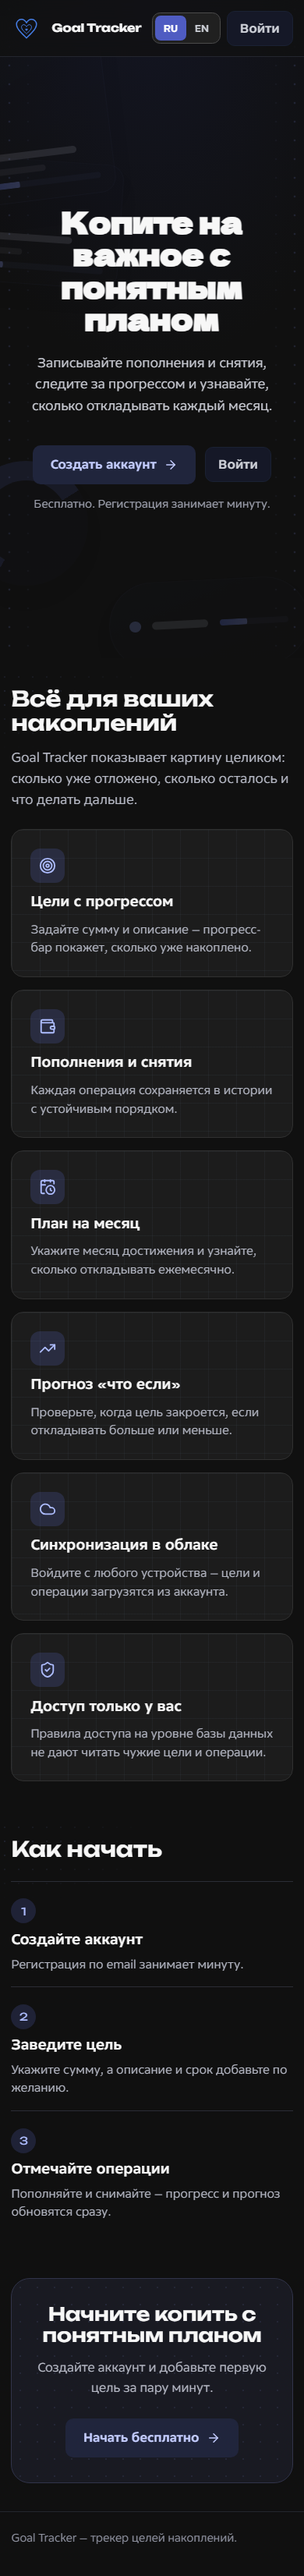
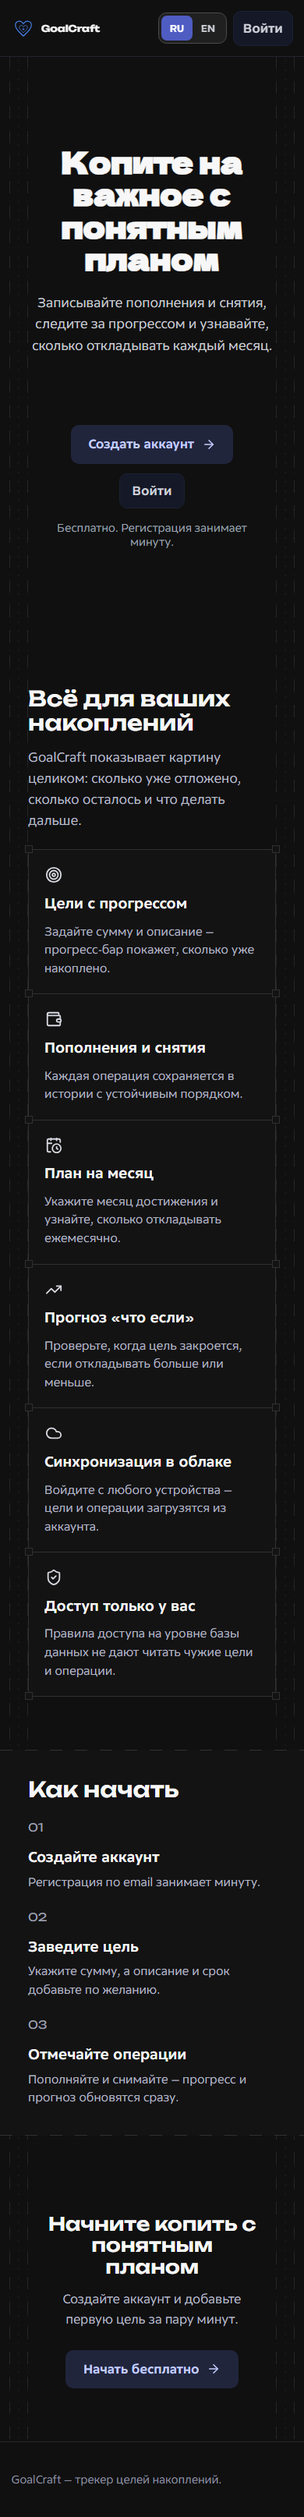
Polish GoalCraft branding and refresh README screenshots

diff --git a/src/shared/lib/i18n.tsx b/src/shared/lib/i18n.tsx
@@ -7,7 +7,7 @@ const storageKey = 'goal-tracker-locale';
 
 const messages = {
   ru: {
-    'app.title': 'Goal Tracker — цели накоплений',
+    'app.title': 'GoalCraft — цели накоплений',
     'app.description': 'Планируйте накопления и отслеживайте прогресс целей.',
     'welcome.title': 'Копите на важное с понятным планом',
     'welcome.lead':
@@ -16,7 +16,7 @@ const messages = {
     'welcome.heroHint': 'Бесплатно. Регистрация занимает минуту.',
     'welcome.featuresTitle': 'Всё для ваших накоплений',
     'welcome.featuresLead':
-      'Goal Tracker показывает картину целиком: сколько уже отложено, сколько осталось и что делать дальше.',
+      'GoalCraft показывает картину целиком: сколько уже отложено, сколько осталось и что делать дальше.',
     'welcome.featureGoals': 'Цели с прогрессом',
     'welcome.featureGoalsText':
       'Задайте сумму и описание — прогресс-бар покажет, сколько уже накоплено.',
@@ -47,9 +47,9 @@ const messages = {
     'welcome.ctaTitle': 'Начните копить с понятным планом',
     'welcome.ctaLead': 'Создайте аккаунт и добавьте первую цель за пару минут.',
     'welcome.ctaAction': 'Начать бесплатно',
-    'welcome.footer': 'Goal Tracker — трекер целей накоплений.',
+    'welcome.footer': 'GoalCraft — трекер целей накоплений.',
     'language.label': 'Язык',
-    'overview.logo': 'Логотип Goal Tracker',
+    'overview.logo': 'Логотип GoalCraft',
     'overview.create': 'Новая цель',
     'overview.summary': 'Сводка накоплений',
     'overview.total': 'Всего накоплено',
@@ -105,7 +105,6 @@ const messages = {
       'Нельзя удалить операцию: это приведёт к отрицательному балансу',
     'delete.transactionError': 'Не удалось удалить операцию',
     'dialog.close': 'Закрыть',
-    'auth.backHome': 'На главную',
     'auth.eyebrow': 'Ваши цели, ваш темп',
     'auth.email': 'Электронная почта',
     'auth.password': 'Пароль',
@@ -207,7 +206,7 @@ const messages = {
     'plan.forecast': 'Прогноз достижения: {month}',
   },
   en: {
-    'app.title': 'Goal Tracker — savings goals',
+    'app.title': 'GoalCraft — savings goals',
     'app.description': 'Plan savings and track progress toward your goals.',
     'welcome.title': 'Save for what matters with a clear plan',
     'welcome.lead':
@@ -216,7 +215,7 @@ const messages = {
     'welcome.heroHint': 'Free. Signing up takes a minute.',
     'welcome.featuresTitle': 'Everything for your savings',
     'welcome.featuresLead':
-      'Goal Tracker shows the whole picture: how much is set aside, what is left, and what to do next.',
+      'GoalCraft shows the whole picture: how much is set aside, what is left, and what to do next.',
     'welcome.featureGoals': 'Goals with progress',
     'welcome.featureGoalsText':
       'Set an amount and a description — the progress bar shows how far you are.',
@@ -248,9 +247,9 @@ const messages = {
     'welcome.ctaLead':
       'Create an account and add your first goal in a couple of minutes.',
     'welcome.ctaAction': 'Get started free',
-    'welcome.footer': 'Goal Tracker — a savings goals tracker.',
+    'welcome.footer': 'GoalCraft — a savings goals tracker.',
     'language.label': 'Language',
-    'overview.logo': 'Goal Tracker logo',
+    'overview.logo': 'GoalCraft logo',
     'overview.create': 'New goal',
     'overview.summary': 'Savings overview',
     'overview.total': 'Total saved',
@@ -308,7 +307,6 @@ const messages = {
       'This transaction cannot be deleted because the balance would become negative',
     'delete.transactionError': 'Could not delete the transaction',
     'dialog.close': 'Close',
-    'auth.backHome': 'Home',
     'auth.eyebrow': 'Your goals, your pace',
     'auth.email': 'Email',
     'auth.password': 'Password',

diff --git a/src/pages/auth/ui/AuthPages.tsx b/src/pages/auth/ui/AuthPages.tsx
@@ -3,6 +3,7 @@ import { Link, useNavigate } from 'react-router';
 
 import { useSession } from '../../../entities/session';
 import { useI18n } from '../../../shared/lib/i18n';
+import { publicAsset } from '../../../shared/lib/publicPath';
 import { Button } from '../../../shared/ui/Button/Button';
 import { Field } from '../../../shared/ui/Field/Field';
 import { LanguageSwitcher } from '../../../shared/ui/LanguageSwitcher/LanguageSwitcher';
@@ -35,14 +36,10 @@ const AuthShell = ({
       <DotBackdrop />
       <div className={styles.topBar}>
         <Link className={styles.brand} to="/">
-          Goal Tracker
+          <img alt="" height={40} src={publicAsset('logo.svg')} width={40} />
+          <span>GoalCraft</span>
         </Link>
-        <div className={styles.topActions}>
-          <LanguageSwitcher />
-          <Link className={styles.backLink} to="/">
-            {t('auth.backHome')}
-          </Link>
-        </div>
+        <LanguageSwitcher />
       </div>
       <section className={styles.card}>
         <p className={styles.eyebrow}>{t('auth.eyebrow')}</p>

diff --git a/src/widgets/app-header/ui/AppHeader.module.scss b/src/widgets/app-header/ui/AppHeader.module.scss
@@ -27,6 +27,38 @@
   gap: 0.75rem;
   justify-content: flex-end;
 }
+.signOut {
+  align-items: center;
+  background: transparent;
+  border: 1px solid transparent;
+  border-radius: 0;
+  color: #ced1d8;
+  cursor: pointer;
+  display: inline-flex;
+  flex: 0 0 2.75rem;
+  height: 2.75rem;
+  justify-content: center;
+  padding: 0;
+  transition:
+    background-color 160ms ease,
+    border-color 160ms ease,
+    color 160ms ease;
+  width: 2.75rem;
+}
+.signOut:not(:disabled):hover,
+.signOut:focus-visible {
+  background: #242424;
+  border-color: #454545;
+  color: #fff;
+}
+.signOut:focus-visible {
+  outline: 2px solid #b9c8ff;
+  outline-offset: 2px;
+}
+.signOut:disabled {
+  cursor: not-allowed;
+  opacity: 0.6;
+}
 .error {
   color: #ffb4b4;
   margin: 0 auto;
@@ -41,7 +73,7 @@
   .actions {
     gap: 0.5rem;
   }
-  .actions > button {
+  .actions > button:not(.signOut) {
     min-height: 2.75rem;
     padding: 0.5rem 0.75rem;
   }

diff --git a/src/shared/lib/i18n.test.tsx b/src/shared/lib/i18n.test.tsx
@@ -32,12 +32,12 @@ describe('i18n', () => {
     expect(
       screen.getByText('Копите на важное с понятным планом')
     ).toBeInTheDocument();
-    expect(document.title).toBe('Goal Tracker — цели накоплений');
+    expect(document.title).toBe('GoalCraft — цели накоплений');
     fireEvent.click(screen.getByRole('button', { name: 'English' }));
     expect(
       screen.getByText('Save for what matters with a clear plan')
     ).toBeInTheDocument();
-    expect(document.title).toBe('Goal Tracker — savings goals');
+    expect(document.title).toBe('GoalCraft — savings goals');
     expect(localStorage.getItem('goal-tracker-locale')).toBe('en');
   });
 });

diff --git a/src/widgets/app-header/ui/AppHeader.tsx b/src/widgets/app-header/ui/AppHeader.tsx
@@ -63,14 +63,16 @@ export const AppHeader = ({ children }: { children?: ReactNode }) => {
               </Button>
             </>
           ) : (
-            <Button
-              variant="secondary"
+            <button
+              className={styles.signOut}
+              type="button"
+              aria-label={t('toolbar.signOut')}
+              title={t('toolbar.signOut')}
               disabled={busy}
               onClick={() => void signOut()}
             >
-              <LogOut size={16} aria-hidden="true" />
-              {t('toolbar.signOut')}
-            </Button>
+              <LogOut size={20} aria-hidden="true" />
+            </button>
           )}
         </div>
       </div>

diff --git a/src/pages/auth/ui/AuthPages.module.scss b/src/pages/auth/ui/AuthPages.module.scss
@@ -18,28 +18,22 @@
   margin: 0 auto;
 }
 
-.topActions {
-  align-items: center;
-  display: flex;
-  flex-wrap: wrap;
-  gap: 1rem;
-}
-
 .brand {
+  align-items: center;
   color: #fff;
+  display: flex;
   font-family: 'Unbounded', sans-serif;
   font-size: 1.1rem;
   font-weight: 700;
+  gap: 0.75rem;
   text-decoration: none;
 }
 
-.backLink,
 .links a,
 .success a,
 .notice a {
   color: #b9c8ff;
 }
-.backLink:focus-visible,
 .links a:focus-visible,
 .success a:focus-visible,
 .notice a:focus-visible,

diff --git a/public/index.html b/public/index.html
@@ -9,11 +9,11 @@
       rel="manifest"
       href="<%= htmlWebpackPlugin.files.publicPath %>manifest.json"
     />
-    <title>Goal Tracker</title>
+    <title>GoalCraft</title>
   </head>
   <body>
     <noscript
-      >Enable JavaScript to use Goal Tracker. / Для работы Goal Tracker включите
+      >Enable JavaScript to use GoalCraft. / Для работы GoalCraft включите
       JavaScript.</noscript
     >
     <div id="root"></div>

diff --git a/src/pages/welcome/ui/WelcomePage.tsx b/src/pages/welcome/ui/WelcomePage.tsx
@@ -77,7 +77,7 @@ export const WelcomePage = ({ onSignUp, onSignIn }: WelcomePageProps) => {
         <div className={styles.headerInner}>
           <div className={styles.brand}>
             <img alt="" height={40} src={publicAsset('logo.svg')} width={40} />
-            <span>Goal Tracker</span>
+            <span>GoalCraft</span>
           </div>
           <div className={styles.headerActions}>
             <LanguageSwitcher />

diff --git a/src/pages/welcome/ui/WelcomePage.module.scss b/src/pages/welcome/ui/WelcomePage.module.scss
@@ -281,16 +281,20 @@
 }
 
 .footer {
+  background: #101010;
   border-top: 1px solid #23252e;
   position: relative;
   z-index: 1;
 }
 
 .footerInner {
+  align-items: center;
   color: #8f92a0;
+  display: flex;
   font-size: 0.9rem;
   margin: 0 auto;
-  padding: 1.5rem 0 2.5rem;
+  min-height: 6rem;
+  padding: 1.5rem 0;
   width: var(--page-width);
 }
 

diff --git a/README.ru.md b/README.ru.md
@@ -1,4 +1,4 @@
-# Goal Tracker
+# GoalCraft
 
 [English version](README.md)
 
@@ -6,11 +6,21 @@
 
 ## Скриншоты
 
-| Стартовый экран                                          | Обзор целей                                           | План и история                                    |
-| -------------------------------------------------------- | ----------------------------------------------------- | ------------------------------------------------- |
-| ![Стартовый экран](docs/screenshots/desktop-welcome.png) | ![Обзор целей](docs/screenshots/desktop-overview.png) | ![Детали цели](docs/screenshots/desktop-goal.png) |
+### Компьютер
 
-[Мобильный стартовый экран](docs/screenshots/mobile-welcome.png) · [Мобильный обзор](docs/screenshots/mobile-overview.png) · [Мобильная цель](docs/screenshots/mobile-goal.png)
+![Стартовый экран](docs/screenshots/desktop-welcome.png)
+
+![Обзор целей](docs/screenshots/desktop-overview.png)
+
+![План накопления и история операций](docs/screenshots/desktop-goal.png)
+
+### Телефон
+
+![Мобильный стартовый экран](docs/screenshots/mobile-welcome.png)
+
+![Мобильный обзор целей](docs/screenshots/mobile-overview.png)
+
+![Мобильный план накопления и история операций](docs/screenshots/mobile-goal.png)
 
 ## Возможности
 

diff --git a/README.md b/README.md
@@ -1,4 +1,4 @@
-# Goal Tracker
+# GoalCraft
 
 [Русская версия](README.ru.md)
 
@@ -6,11 +6,21 @@ A bilingual savings goal tracker built with React and TypeScript. Create an emai
 
 ## Screenshots
 
-| Welcome                                                 | Goal overview                                           | Savings plan and history                           |
-| ------------------------------------------------------- | ------------------------------------------------------- | -------------------------------------------------- |
-| ![Welcome screen](docs/screenshots/desktop-welcome.png) | ![Goal overview](docs/screenshots/desktop-overview.png) | ![Goal details](docs/screenshots/desktop-goal.png) |
+### Desktop
 
-[Mobile welcome](docs/screenshots/mobile-welcome.png) · [Mobile overview](docs/screenshots/mobile-overview.png) · [Mobile goal](docs/screenshots/mobile-goal.png)
+![Welcome screen](docs/screenshots/desktop-welcome.png)
+
+![Goal overview](docs/screenshots/desktop-overview.png)
+
+![Savings plan and transaction history](docs/screenshots/desktop-goal.png)
+
+### Mobile
+
+![Mobile welcome screen](docs/screenshots/mobile-welcome.png)
+
+![Mobile goal overview](docs/screenshots/mobile-overview.png)
+
+![Mobile savings plan and transaction history](docs/screenshots/mobile-goal.png)
 
 ## Features
 

diff --git a/AGENT.md b/AGENT.md
@@ -1,4 +1,4 @@
-# Goal Tracker — project guide
+# GoalCraft — project guide
 
 ## Product goal
 
